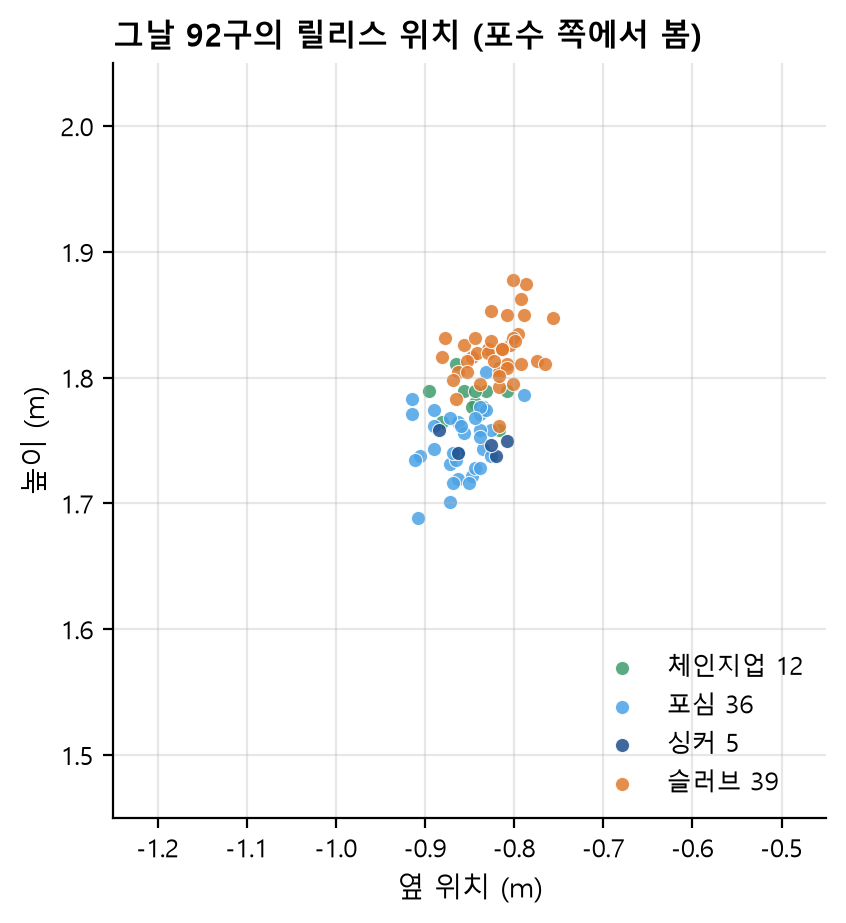
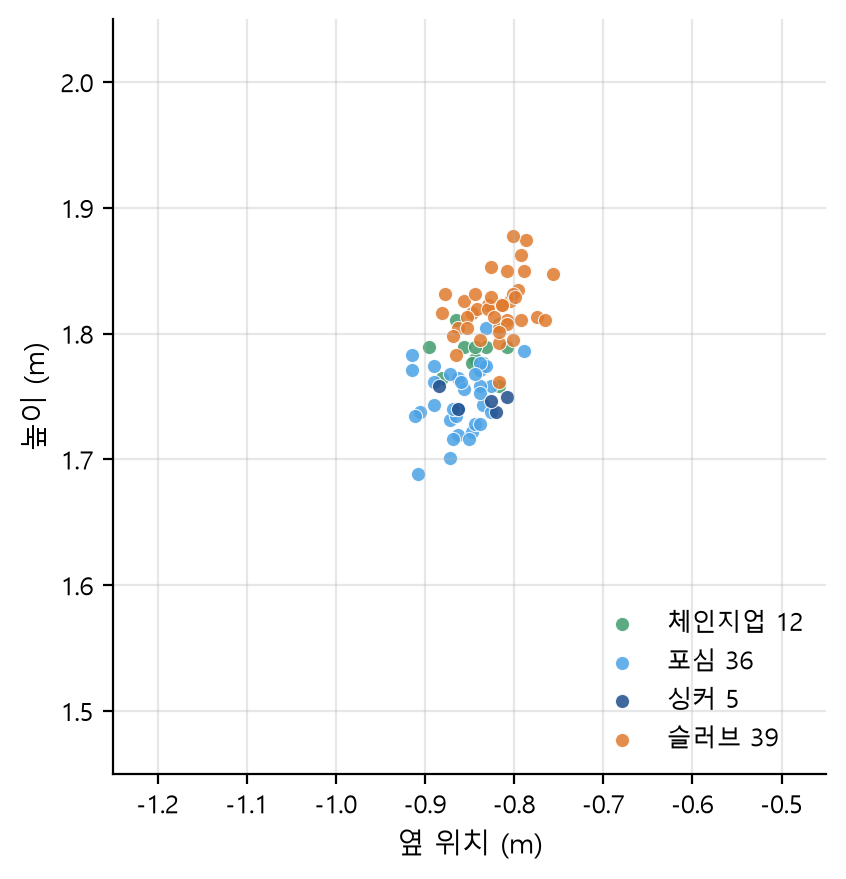
발표자료 최종 수정: 표지는 투수 사진과 연락처만, 3쪽 캡처 프레임 없이, 6쪽 그림 안 글자를 밖으로·KBO 구단 추적 데이터 한 줄, 7쪽 연구 출처

diff --git a/tools/deck_revise_1025.py b/tools/deck_revise_1025.py
@@ -1,0 +1,102 @@
+"""발표자료 최종 수정 (2026-10-25, 사용자 검토 — 메모 C:/work/private/pitchsignal/발표_수정메모_2차.md 끝부분). 사용자가 저장한 파일 위에서.
+- 1쪽: 숫자·설명 없이 이름만 — 투수 사진(오른쪽 꽉 채움) + 피치시그널 / PITCHSIGNAL / 이름·소속·메일·전화·사이트
+- 3쪽: 선수 카드 캡처를 찢어진 프레임 없이 반듯하게, 더 크게
+- 6쪽: 그림 안 설명 글을 빼고 슬라이드 글상자로
+    python -m tools.deck_revise_1025 <입력.pptx> <출력.pptx> <투수사진> <전화번호>
+"""
+from __future__ import annotations
+
+import sys
+
+from PIL import Image
+from pptx.enum.text import PP_ALIGN
+from pptx import Presentation
+
+from tools import build_deck as bd
+from tools.deck_revise_1023 import drop, shape
+from tools.deck_revise_1024 import DECK, PRIVATE
+
+SCREEN = bd.SCREENS / "04b_ball_ratio.png"
+
+
+def fill_picture(slide, path, x, y, w, h):
+    """사진을 자르지 않고 늘리지도 않게 — 칸 비율에 맞춰 가운데를 남기고 가장자리를 잘라 채운다."""
+    im = Image.open(path)
+    pic = bd.picture(slide, path, x, y, w, h)
+    want, have = h / w, im.height / im.width
+    if have > want:                                       # 세로가 남음 → 위아래를 잘라 냄
+        c = (1 - want / have) / 2; pic.crop_top = pic.crop_bottom = c
+    else:
+        c = (1 - have / want) / 2; pic.crop_left = pic.crop_right = c
+    return pic
+
+
+def s1(s, photo, phone):
+    drop(s, 7, 8, 9, 10, 11, 12, 13)
+    im = Image.open(photo)                                # 누끼 딴 투수(투명 배경): 바닥에 발이 닿게 오른쪽 아래에, 높이 7인치 (사용자 10/25 "누끼 따서")
+    h = 7.0; w = h * im.width / im.height
+    if w > 7.6:                                           # 여러 명 합친 넓은 그림은 폭으로 맞춤
+        w = 7.6; h = w * im.height / im.width
+    pic = bd.picture(s, photo, bd.SW - w - 0.2, bd.SH - h, w, h)
+    tree = pic._element.getparent(); tree.remove(pic._element)
+    tree.insert(tree.index(shape(s, 3)._element) + 1, pic._element)     # 글자 뒤로 (줄무늬 바로 위)
+    h = shape(s, 4); h.left, h.top = bd.Inches(0.85), bd.Inches(0.5)
+    h.text_frame.paragraphs[0].alignment = PP_ALIGN.LEFT
+    t = shape(s, 5); t.left, t.top = bd.Inches(0.85), bd.Inches(1.9)
+    e = shape(s, 6); e.left, e.top = bd.Inches(0.95), bd.Inches(3.1)
+    bd.text(s, 0.9, 5.3, 5.8, 1.7, [[bd.body("김형준 · UNIST", 20, bd.WHITE, True)],
+                                     [bd.body(f"robin1967@unist.ac.kr  ·  {phone}", 14, bd.SOFT)],
+                                     [bd.body("robinkim0221.github.io/pitch-signal", 14, bd.BLUE)]], line=1.4)
+
+
+def s3(s):
+    drop(s, 15)
+    w = 6.4
+    pic = bd.picture(s, SCREEN, 6.55, 1.9, w, bd.fit(SCREEN, w))
+    pic.line.color.rgb = bd.SOFT; pic.line.width = bd.Pt(0.75)
+
+
+def s6(s):
+    drop(s, 10, 11, 12)
+    zoom, sc = PRIVATE / "raw_zoom.png", DECK / "pitch_scatter.png"
+    bd.text(s, 0.45, 1.9, 8.5, 0.35, [[bd.body("원자료 그대로 — Baseball Savant 열 이름과 단위(mph, ft), 이 등판 92구 중 처음 16구 (열 119개 중 9개)", 11, bd.SOFT)]])
+    bd.picture(s, zoom, 0.45, 2.3, 8.5)
+    bd.text(s, 9.2, 1.9, 3.95, 0.35, [[bd.body("그날 92구의 릴리스 위치 (포수 쪽에서 봄)", 11, bd.SOFT, True)]])
+    bd.picture(s, sc, 9.2, 2.3, 3.95)
+    bd.text(s, 9.2, 2.3 + bd.fit(sc, 3.95) + 0.15, 3.95, 0.8, [[bd.body("Baseball Savant(MLB 공개 투구 기록)에서 내려받은 원자료", 10, bd.SOFT)],
+                                                               [bd.body("Michael Soroka · 2025년 7월 4일 등판 92구 × 항목 119개", 10, bd.SOFT)]], line=1.2)
+    bd.text(s, 0.45, 6.72, 8.5, 0.6, [[bd.body("KBO 구단도 같은 추적 장비(트랙맨)로 공마다 이 데이터를 갖고 있습니다", 12, bd.WHITE)],
+                                      [bd.body("공개되지 않았을 뿐, 구단 안에서는 바로 쓸 수 있습니다", 12, bd.SOFT)]], line=1.15)   # 2026-10-25 사용자
+
+
+def s7(s):
+    """'나와 비교하면' 줄에 연구 출처 — 사용자 질문(어디 연구인지)에 답한 뒤 슬라이드에도 붙임. (PowerPoint가 저장하며 조각을 쪼개 두므로 문단을 새로 짠다)"""
+    sh = next(x for x in s.shapes if x.has_text_frame and x.text_frame.text.startswith("나와 비교하면"))
+    tf = sh.text_frame
+    for p in tf.paragraphs[1:]:
+        p._p.getparent().remove(p._p)
+    p0 = tf.paragraphs[0]
+    for r in p0.runs[1:]:
+        r._r.getparent().remove(r._r)
+    p0.runs[0].text = "나와 비교하면 — "
+    bd._font(p0.add_run(), bd.BODY, 12.5, bd.INK); p0.runs[-1].text = "부상 직전 등판들에서 본인 구속이 떨어짐 (컬럼비아대 의대 2026, 팔꿈치 78명 · 어깨 27명)"
+    sh.height = bd.Inches(0.7)
+
+
+def main(src: str, out: str, photo: str, phone: str) -> None:
+    prs = Presentation(src)
+    sl = list(prs.slides)
+    s1(sl[0], photo, phone); s3(sl[2]); s6(sl[5]); s7(sl[6])
+    for s in sl:
+        for sh in s.shapes:
+            if sh.has_text_frame:
+                for p in sh.text_frame.paragraphs:
+                    p._p.get_or_add_pPr().set("eaLnBrk", "0")
+                    for run in p.runs:
+                        run._r.get_or_add_rPr().set("lang", "ko-KR")
+    prs.save(out)
+    print("저장:", out)
+
+
+if __name__ == "__main__":
+    main(*sys.argv[1:5])

diff --git a/tools/deck_pitch_data.py b/tools/deck_pitch_data.py
@@ -91,9 +91,8 @@ def raw_zoom(path, n: int = 16) -> None:
     """원자료 핵심 열 9개를 영어 열 이름·원래 단위(mph, ft) 그대로 보이는 표, 공 1~n (2026-10-24 사용자: 가공 없이 raw 그대로, 엑셀 캡처 대신 이 표를 크게)."""
     s = load().head(n)
     plt.rcParams.update({"font.family": "Consolas", "axes.unicode_minus": False})
-    fig = plt.figure(figsize=(10.2, 0.95 + 0.29 * n), dpi=200); fig.patch.set_facecolor("white")
-    top = 1 - 0.55 / fig.get_figheight()
-    ax = fig.add_axes([0.02, 0.03, 0.96, top - 0.08]); ax.axis("off")
+    fig = plt.figure(figsize=(10.2, 0.5 + 0.29 * n), dpi=200); fig.patch.set_facecolor("white")      # 설명 글은 그림 밖(슬라이드 글상자)에 — 2026-10-25 사용자
+    ax = fig.add_axes([0.02, 0.03, 0.96, 0.93]); ax.axis("off")
     xs = [0.0, 0.115, 0.265, 0.345, 0.45, 0.555, 0.66, 0.79, 0.875]
     for x, h in zip(xs, RAW_COLS):
         ax.text(x, 1.0, h, fontsize=9.2, fontweight="bold", color="#111", va="top", transform=ax.transAxes)
@@ -106,7 +105,6 @@ def raw_zoom(path, n: int = 16) -> None:
         for x, c in zip(xs, RAW_COLS):
             v = r[c]
             ax.text(x, y, f"{v:g}" if isinstance(v, float) else str(v)[:10 if c == "game_date" else None], fontsize=9.8, color="#111", va="center", transform=ax.transAxes)
-    fig.text(0.02, top + 0.02, f"원자료 그대로 — Baseball Savant 열 이름과 단위(mph, ft), 이 등판 92구 중 처음 {n}구 (열 119개 중 9개)", fontsize=10, color="#555", fontfamily="Malgun Gothic")
     fig.savefig(path, facecolor="white")
     plt.close(fig)
 
@@ -119,8 +117,7 @@ def scatter(path) -> None:
     fig.patch.set_facecolor("white")
     for pt, g in s.groupby("pitch_type"):
         bx.scatter(g.release_pos_x * 0.3048, g.release_pos_z * 0.3048, s=26, color=COLOR.get(pt, "#888"), alpha=0.85, label=f"{TYPE.get(pt, pt)} {len(g)}", edgecolor="white", lw=0.4)
-    bx.set_title(f"그날 {len(s)}구의 릴리스 위치 (포수 쪽에서 봄)", fontsize=11, loc="left", fontweight="bold")
-    bx.set_xlabel("옆 위치 (m)", fontsize=10); bx.set_ylabel("높이 (m)", fontsize=10)
+    bx.set_xlabel("옆 위치 (m)", fontsize=10); bx.set_ylabel("높이 (m)", fontsize=10)       # 제목은 슬라이드 글상자에
     bx.set_xlim(-1.25, -0.45); bx.set_ylim(1.45, 2.05)
     bx.tick_params(labelsize=9)
     for sp in ("top", "right"):
